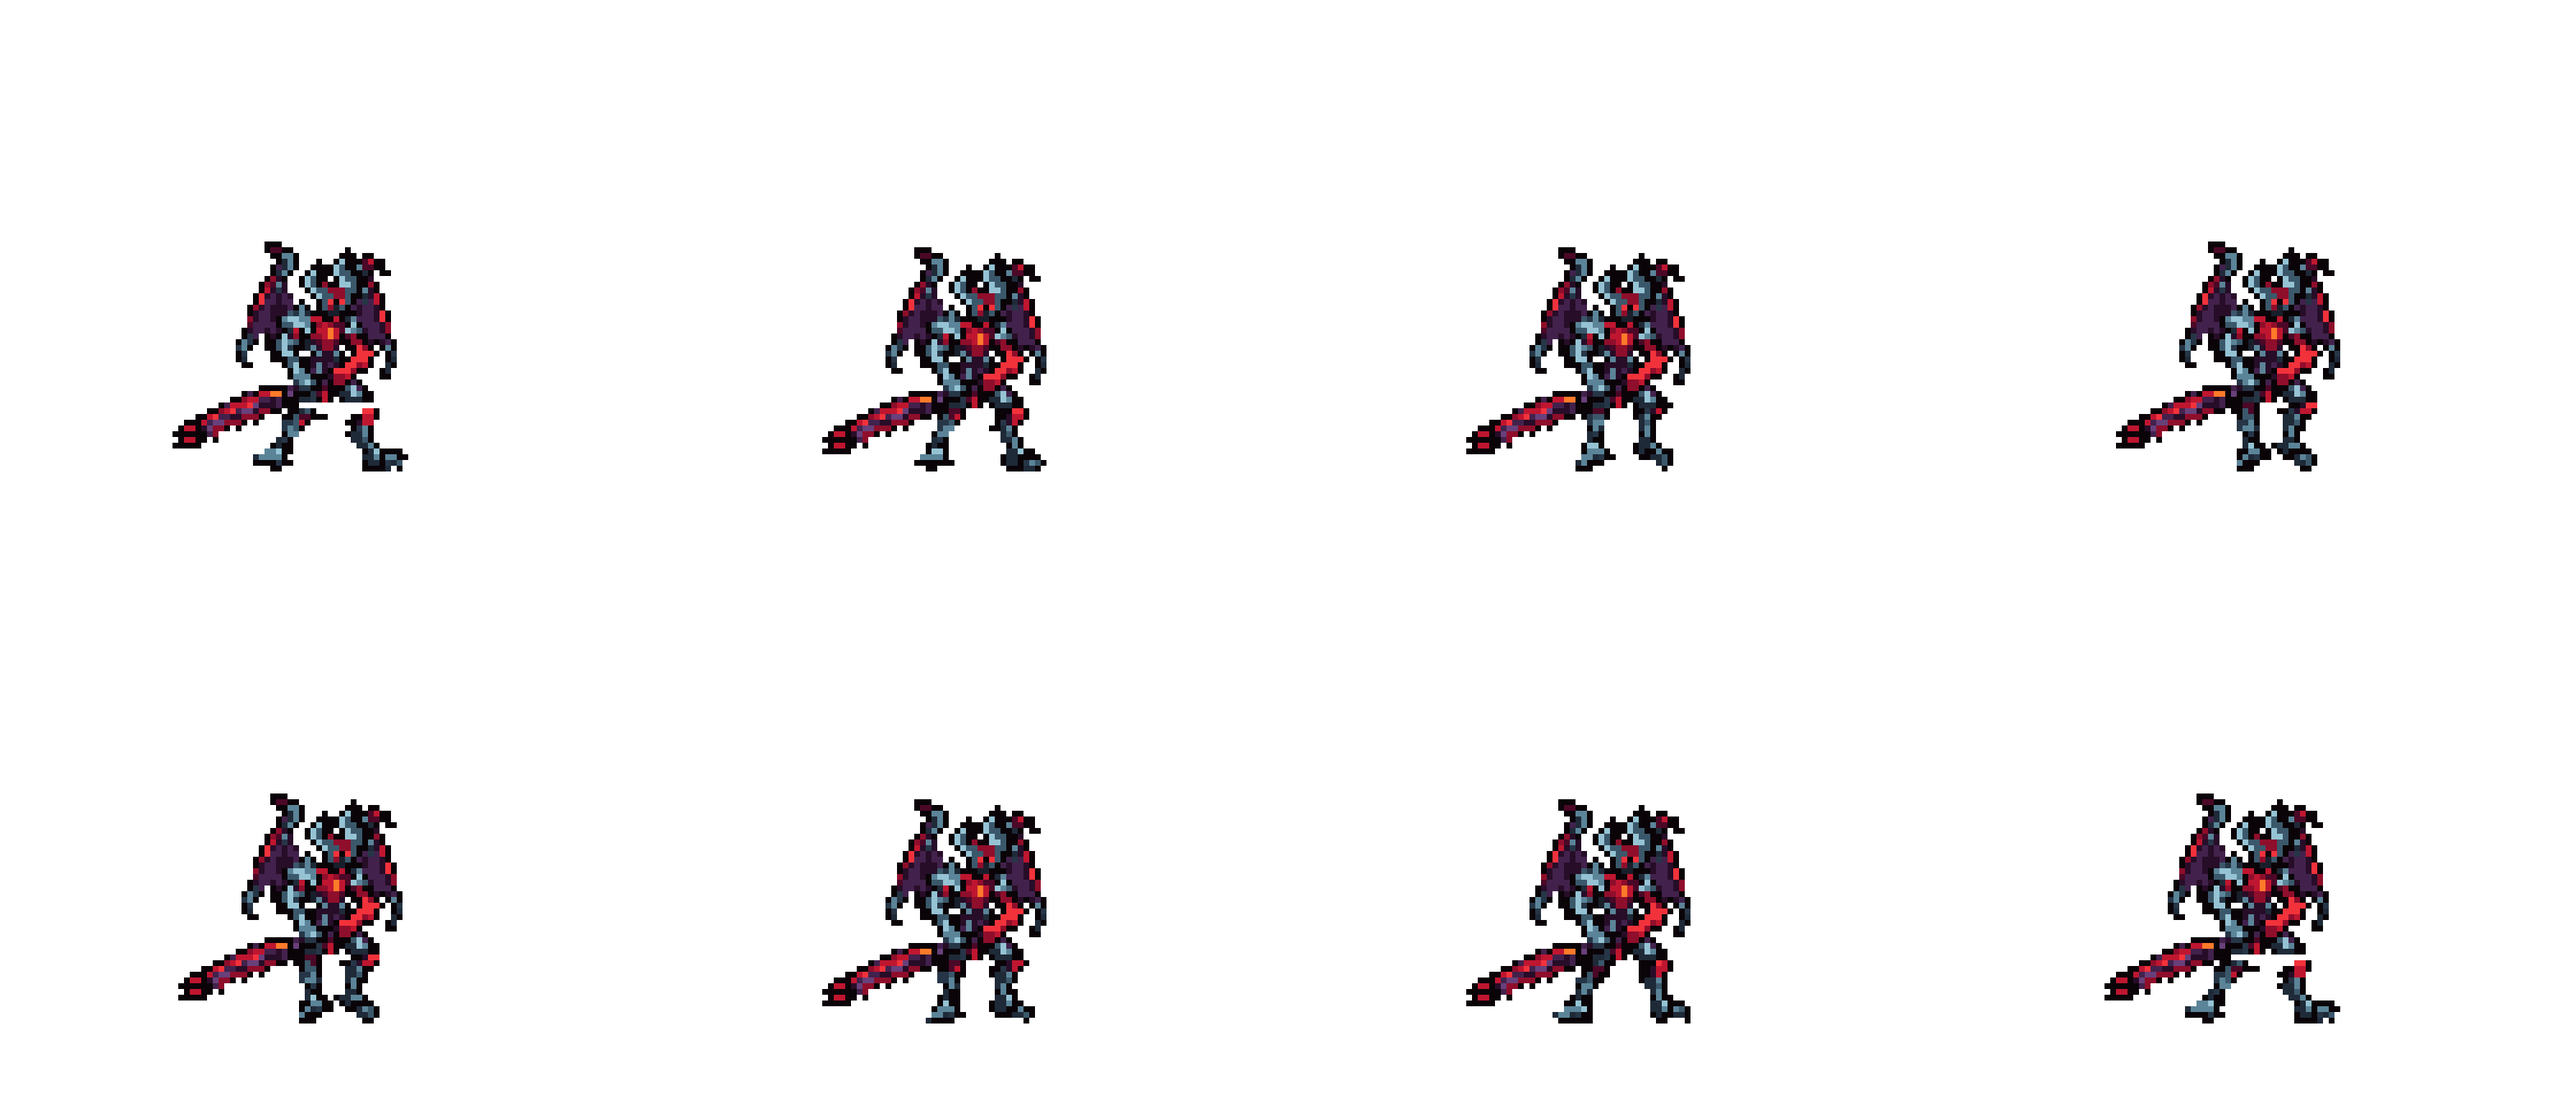
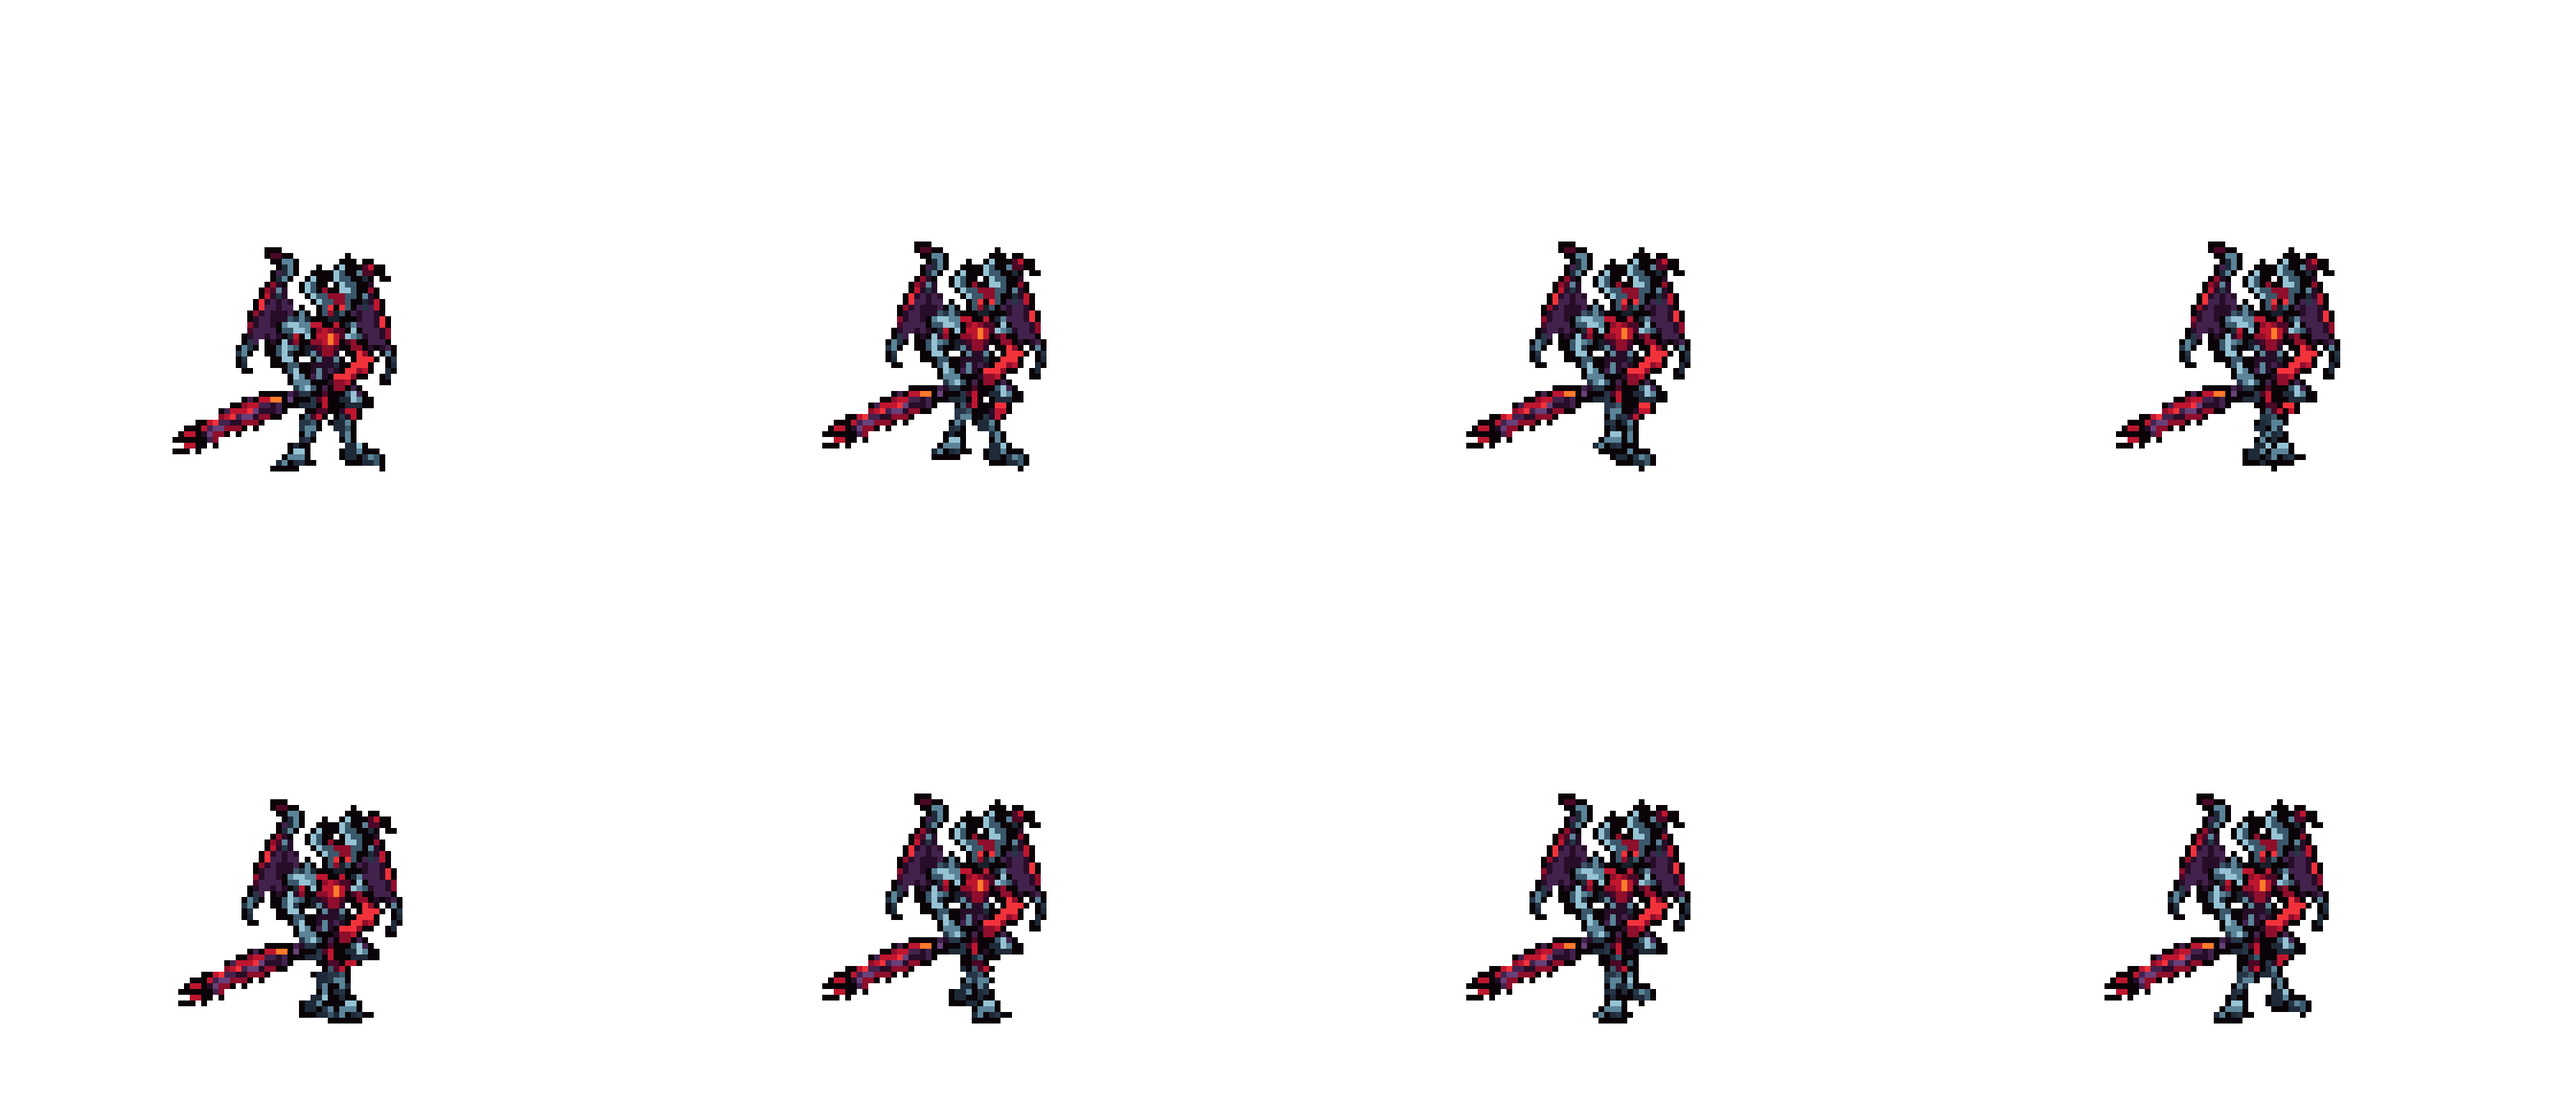
Aatrox: the run crosses its legs
The user: 「走路没有交叉步」 and 「腿后面模型有缺失」. The run turned each
leg +-18 deg about its hip (12 px apart): the feet never passed each other,
and the cut at column 64 and the turned thigh tops left holes behind the
legs. rig_aatrox.py now leans each of the design's legs by shearing (every
square keeps its colour, the hip stays on): both legs come 3 px in under
the skirt, the near foot swings from behind the far one to ahead of it and
back (shoes 10 px apart at most, the lead swapping each half cycle), the
swinging foot is lifted 2-3 rows as in League's run, the body a row lower
when both feet are down. Every frame one piece, no new colours.

diff --git a/tools/art/rig_aatrox.py b/tools/art/rig_aatrox.py
@@ -20,7 +20,7 @@ legs, the arms were drawn as tubes and the ult's wings as flat polygons. The use
   behind each for the spread membrane (WINGS).
 - the death: the whole design turned by RotSprite (staggering back), then a quarter (lying on his back, face up), the
   blade on the ground beside him.
-- the run: the design's legs turned about the hips by RotSprite in League's stride (STEP), the body bobbing a row.
+- the run: the design's legs leaned by shearing in League's stride, crossing (RUN_C), the swinging foot lifted.
 --check compares the strips with assets/source/native/.
 """
 import argparse
@@ -79,8 +79,21 @@ ULT_ARMS = [None, (165, (53, 83), (72, 79), (75, 80)), (150, (49, 81), (73, 78),
             (150, (49, 81), (73, 78), (78, 77)), (150, (49, 81), (73, 78), (78, 77)), None]
 FAR_ROOT = (69, 75)                  # where the drawn wings join the back (behind the shoulders)
 NEAR_ROOT = (58, 75)
-STEP = [-18, -6, 10, 18, 18, 6, -10, -18]      # the run's near leg angle (the far leg the opposite), Codex's stride
-BOB = [0, 1, 1, 0, 0, 1, 1, 0]
+# the run (League's Unsheath_run01, 8 frames): the legs alternate under the body - the near foot (left) from behind
+# the far one to ahead of it and back, so the lead swaps every half cycle (the user: 「走路没有交叉步」); League's
+# legs run close together, so in the run both legs come RUN_NARROW px in under the skirt (hips 6 apart, not the
+# idle's 12) and the feet swing RUN_REACH px either side of the body's middle (shoes 10 px apart at most), the
+# swinging foot lifted as League's knee comes up; the body a row lower when both feet are down.
+# RUN_C = -cos(2 pi i / 8): -1 = near foot behind (frame 0, League's), +1 = near foot ahead (frame 4).
+RUN_C = [-1.0, -0.71, 0.0, 0.71, 1.0, 0.71, 0.0, -0.71]
+RUN_REACH = 5
+RUN_NARROW = 3
+NEAR_LIFT = [0, 2, 3, 1, 0, 0, 0, 0]
+FAR_LIFT = [0, 0, 0, 0, 0, 2, 3, 1]
+RUN_BOB = [1, 0, 0, 0, 1, 0, 0, 0]
+LEG_TOP = 88                         # the legs below this row move; the hips and the skirt above stay
+NEAR_COLS = (48, 64)                 # the near (left) leg's columns, the far (right) leg's
+FAR_COLS = (64, 80)
 DEAD = [(0, 0), (0.15, 0), (0.4, 1), ("rot", 0), ("rot", 0), ("rot", 0), ("rot", 0), ("rot", 0)]
 
 
@@ -411,27 +424,56 @@ def frame(tag, i, des, sm):
     raise ValueError(tag)
 
 
-def run(i, des, sm):
-    """The design's legs turned about the hips in League's stride; everything over them - the arms holding the blade
-    as in the idle, the wings, the head - the design's own, bobbing a row."""
-    upper = des.copy()
-    upper[88:, 53:] = 0                                   # the blade's tip and its outline (left of the legs) stay up
-    upper[sm] = des[sm]                                   # the blade hangs below row 88 with the fist
-    legs = des.copy()
-    legs[:88] = 0
-    legs[:, :53] = 0
-    legs[sm] = 0
-    out = np.zeros_like(des)
-    for side, hip, sign in (("far", (68, 88), -1), ("near", (60, 88), 1)):
-        part = legs.copy()
-        if side == "far":
-            part[:, :64] = 0
+def leg(des, sm, cols):
+    """One of the design's legs below LEG_TOP (the blade's squares left with the body)."""
+    part = np.zeros_like(des)
+    part[LEG_TOP:, cols[0]:cols[1]] = des[LEG_TOP:, cols[0]:cols[1]]
+    part[sm] = 0
+    return part
+
+
+def stride(part, top_dx, foot_dx, lift):
+    """A leg moved top_dx at the hip and foot_dx at the sole, leaned by shearing in between (every square keeps its
+    colour), then lifted `lift` rows (its top slides under the skirt)."""
+    out = np.zeros_like(part)
+    span = 100 - LEG_TOP
+    for y in range(LEG_TOP, 100):
+        dx = int(round(top_dx + (foot_dx - top_dx) * (y - LEG_TOP + 1) / span))
+        row = part[y]
+        if not row[:, 3].any():
+            continue
+        shifted = np.zeros_like(row)
+        if dx >= 0:
+            shifted[dx:] = row[:row.shape[0] - dx]
         else:
-            part[:, 64:] = 0
-        t = turned(part, hip, sign * STEP[i], hip)
-        ys = np.nonzero(t[..., 3].any(1))[0]
-        over(out, t, 0, 99 - ys.max())
-    return over(out, upper, 0, BOB[i])
+            shifted[:dx] = row[-dx:]
+        yy = y - lift
+        m = shifted[:, 3] > 0
+        out[yy][m] = shifted[m]
+    return out
+
+
+def run(i, des, sm):
+    """League's stride with crossing legs: each of the design's legs leaned by shearing (no turning noise, the hips
+    in place), the near foot from behind the far one to past it and back (RUN_C), the swinging foot lifted; the far
+    leg drawn first, the near one over it, the body over both - the arms holding the blade as in the idle, the wings,
+    the head, the design's own - a row lower when both feet are down."""
+    upper = des.copy()
+    upper[LEG_TOP:] = 0
+    upper[sm] = des[sm]                                   # the blade hangs below the hips with the fist
+    near, far = leg(des, sm, NEAR_COLS), leg(des, sm, FAR_COLS)
+    nx, fx = shin_x(near), shin_x(far)
+    mid = (nx + fx) / 2
+    out = np.zeros_like(des)
+    over(out, stride(far, -RUN_NARROW, mid - RUN_REACH * RUN_C[i] - fx, FAR_LIFT[i]))
+    over(out, stride(near, RUN_NARROW, mid + RUN_REACH * RUN_C[i] - nx, NEAR_LIFT[i]))
+    return over(out, upper, 0, RUN_BOB[i])
+
+
+def shin_x(part):
+    """A leg's middle column over its shin (rows 92-95)."""
+    xs = np.nonzero(part[92:96, :, 3].any(0))[0]
+    return (xs.min() + xs.max()) / 2
 
 
 def sheared(a, k, sink=0):
